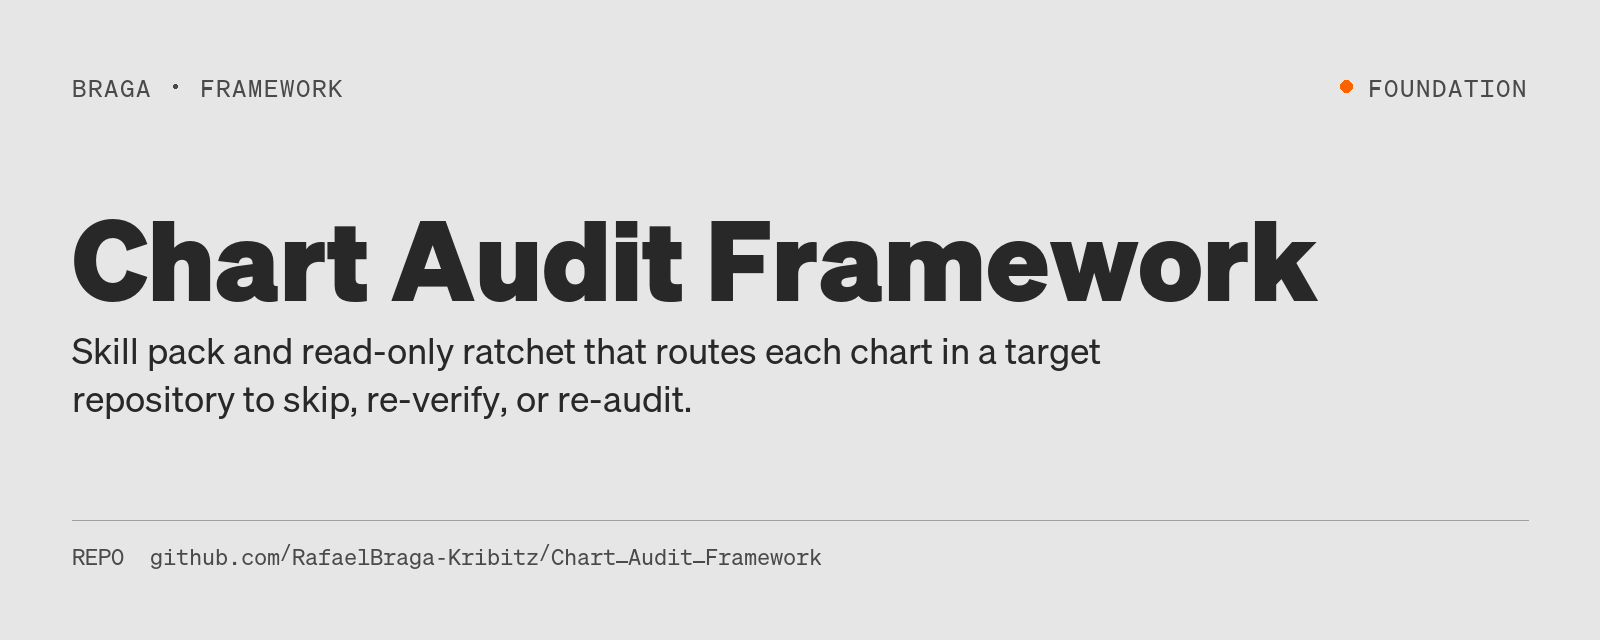
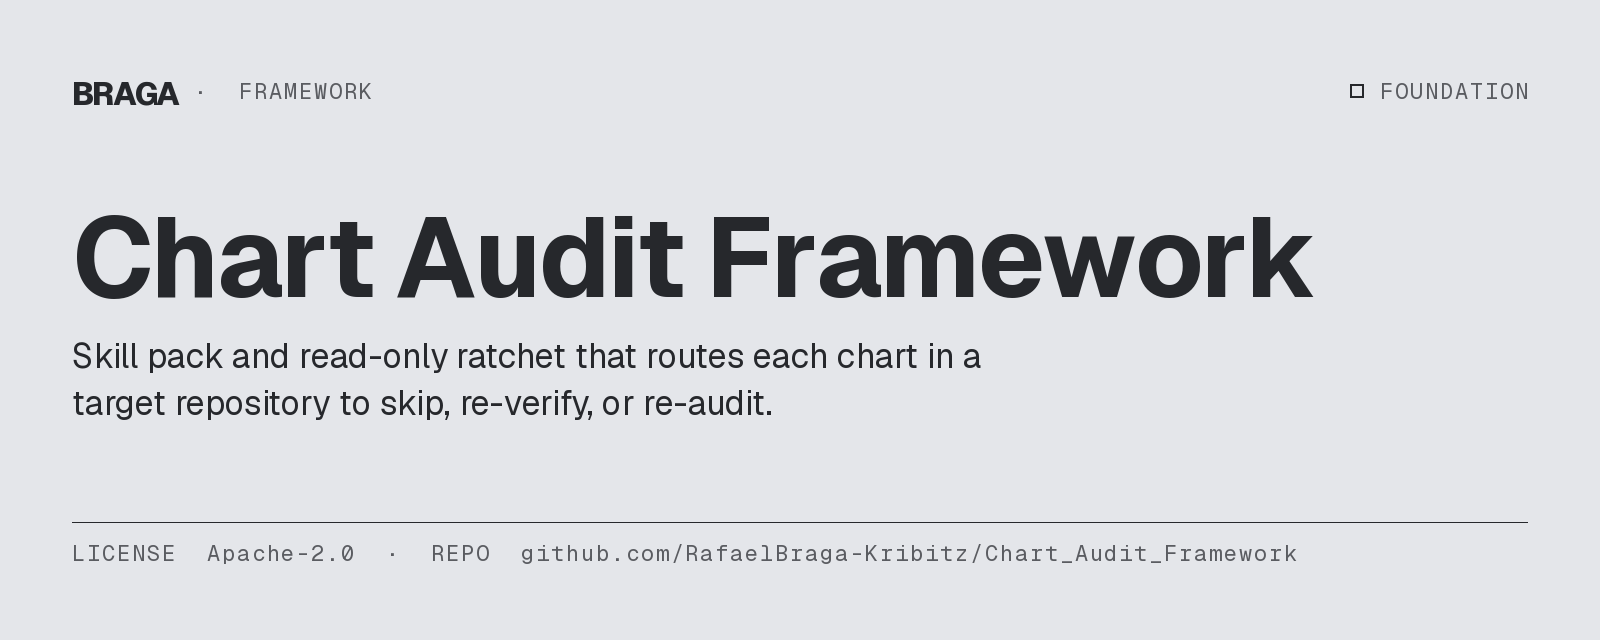
Chart skills build and audit in the Braga design system v2.1
chart-expert/references/house-style.md: for the owner's repositories (or
any target declaring bk-viz) the library spec decides the chart and the
house style decides how it looks: bk-viz >= 2.0.0, colours only through
roles, one highlight, IBCS variance colours with the ▲ alert, colour in
marks never in type, BKribitz, 12px floor, provenance footer. chart-audit
adds its table to Layer 9 (visual integrity), below the upstream layers.

README: banner regenerated on design system v2.1, badges in the
neutrals, the Mermaid diagram on the site's theme (braga-portfolio-docs).

Claude-Session: https://claude.ai/code/session_017JXfGqfFadubVauUqq2nZv

diff --git a/chart-expert/references/house-style.md b/chart-expert/references/house-style.md
@@ -1,0 +1,48 @@
+# House style — the Braga design system v2.1
+
+Load this whenever the target repository belongs to Rafael Braga-Kribitz (any
+`github.com/RafaelBraga-Kribitz/*` checkout) or declares `bk-viz` as a dependency.
+The library's chart specs say *which* chart and *how to build it*; this file
+says how every chart in the owner's portfolio *looks*. Where a library snippet
+hard-codes a colour (`#4477AA`, `#d3d3d3`, …), this file wins.
+
+Source of truth: braga-portfolio-v2
+[`design-system/DECISIONS.md`](https://github.com/RafaelBraga-Kribitz/braga-portfolio-v2/blob/main/design-system/DECISIONS.md)
+(D-015–D-018, D-033, D-036, D-053) and its `tokens.json`. The implementation is
+[`bk-viz`](https://github.com/RafaelBraga-Kribitz/bk-viz) ≥ 2.0.0; never copy a
+hex value from either into chart code.
+
+## Implement (chart-expert)
+
+1. Declare `bk-viz` (`bk-viz @ git+https://github.com/RafaelBraga-Kribitz/bk-viz@v2.0.0`)
+   and call `bk.apply("light")` (or `"dark"`) before plotting.
+2. Colours only through roles: `bk.c("sc-ac")` actual, `bk.c("sc-py")` previous
+   year, `bk.c("sc-pl")` plan (outline), `bk.variance_color(delta)` for
+   variances, `bk.palette("categorical", n)` for unordered series (six or more:
+   the rest are `bk.c("cat-other")`), `bk.palette("seq" | "div" | "two" | …)`
+   for scales, `bk.highlight_palette(labels, highlight=…)` for the one mark that
+   earned the accent.
+3. One highlight per chart (`hl`, the ultramarine accent). Two highlights read
+   as none.
+4. Colour lives in marks, never in type: labels in `ink` / `ink-2`
+   (`bk.direct_label`, `bk.value_labels`). A bad variance label carries ▲
+   (`bk.variance_label`). The only coloured text is the one earned KPI figure.
+5. Finding as the title (`bk.finding_title`), provenance under the chart
+   (`bk.footer`), direct labels instead of a legend where possible.
+6. Save with `bk.save(fig, path)` (PNG + SVG); no text below 12px.
+
+## Audit (chart-audit, Layer 9 — Visual Integrity)
+
+For a chart in the owner's portfolio, each item below is a finding when it fails.
+They are presentation findings: they never outrank Layers 1–8 (upstream first).
+
+| Check | Fails when |
+|---|---|
+| Theme applied | the generator does not import `bk_theme` / call `bk.apply()`; the surface is white or `#E6E6E6` (v1) |
+| No v1 palette | orange `#FA6400`, moment blue `#5B7FFF`, or a Söhne font name appears in the generator or the figure |
+| One highlight | more than one mark in the accent; the accent used for anything but the earned mark |
+| IBCS roles | variance coloured by anything but `var-pos` / `var-neg`; a bad variance without ▲; plan drawn solid |
+| Colour in type | a label, tick or title in a hue (other than the one earned KPI figure); `mid` grey used for text |
+| Categorical order | hues out of slot order, or six-plus series without `cat-other` |
+| Type | not BKribitz / BKribitz Mono; any text below 12px |
+| Provenance | no `bk.footer` (source, run, epistemic tag) on a published figure |

diff --git a/README.md b/README.md
@@ -2,8 +2,8 @@
 
 ![Chart Audit Framework — Skill pack and read-only ratchet that routes each chart in a target repository to skip, re-verify, or re-audit.](docs/assets/hero.png)
 
-[![Status: Foundation](https://img.shields.io/badge/status-Foundation-orange)](#status)
-[![License: Apache-2.0](https://img.shields.io/badge/license-Apache--2.0-green)](LICENSE)
+[![Status: Foundation](https://img.shields.io/badge/status-Foundation-5A5C61?labelColor=26282C)](#status)
+[![License: Apache-2.0](https://img.shields.io/badge/license-Apache--2.0-5A5C61?labelColor=26282C)](LICENSE)
 
 **Status:** Foundation
 
@@ -12,6 +12,33 @@ Python 3 · PyYAML · Apache-2.0 (author's files; third-party references exclude
 Charts that look finished can still encode a flat distribution, a mislabeled interval, or a silently dropped category — and a fresh language-model audit of every figure cannot tell a closed finding from a regression. This framework is the skill pack and read-only ratchet that routes each chart to skip, re-verify, or re-audit against a target repository's figure manifest.
 
 ```mermaid
+%%{init: {
+  "theme": "base",
+  "fontFamily": "BKribitz, system-ui, -apple-system, Segoe UI, Helvetica, Arial, sans-serif",
+  "themeVariables": {
+    "background": "#E4E6EA",
+    "primaryColor": "#DCDEE2",
+    "primaryTextColor": "#26282C",
+    "primaryBorderColor": "#26282C",
+    "secondaryColor": "#E4E6EA",
+    "secondaryTextColor": "#26282C",
+    "secondaryBorderColor": "#5A5C61",
+    "tertiaryColor": "#E4E6EA",
+    "tertiaryTextColor": "#26282C",
+    "tertiaryBorderColor": "#C2C4CA",
+    "lineColor": "#5A5C61",
+    "textColor": "#26282C",
+    "mainBkg": "#DCDEE2",
+    "nodeBorder": "#26282C",
+    "clusterBkg": "#E4E6EA",
+    "clusterBorder": "#C2C4CA",
+    "edgeLabelBackground": "#E4E6EA",
+    "titleColor": "#26282C",
+    "fontFamily": "BKribitz, system-ui, -apple-system, Segoe UI, Helvetica, Arial, sans-serif",
+    "fontSize": "14px"
+  },
+  "flowchart": { "curve": "linear", "htmlLabels": true, "padding": 8 }
+}}%%
 flowchart TD
   T[Target checkout<br/>FIGURE_MANIFEST + findings] --> R[ratchet.py]
   R -->|unchanged and previously clean| S[skip]

diff --git a/chart-expert/SKILL.md b/chart-expert/SKILL.md
@@ -33,6 +33,7 @@ If the user is deciding what to measure, which OKRs or KPIs matter, how a dashbo
 | `library/ONTOLOGY.md` | Metric, KPI, KRI, OMTM, objective, or key result is being used loosely |
 | `library/KPIS/index.md` | Looking up an authored KPI, its formula, and its charts |
 | `references/input-type-schema.md` | Always — core detection logic |
+| `references/house-style.md` | The target is one of the owner's repositories or declares `bk-viz`: every chart is built in the Braga design system v2.1 |
 | `references/input-type-inventory.md` | Data has unusual IT structure (IT001–IT040) |
 | `references/retrieval-dimensions.md` | Need to understand filtering logic |
 | `references/chart-library-index.md` | Looking up which charts exist in library |
@@ -125,6 +126,11 @@ Before invoking chart-implementer, determine the project's tool:
 3. Scan reports/ directory → .html files suggest plotly/altair; .png from python suggest matplotlib
 4. Default: matplotlib (Python projects), altair (web/notebook projects)
 ```
+
+When the target is one of the owner's repositories (or declares `bk-viz`), the tool is
+matplotlib with `bk_theme` applied, and `references/house-style.md` is passed to the
+chart-implementer with the chart spec: the spec decides the chart, the house style decides
+its colours, type and annotation.
 
 ## Gate C Integration
 

diff --git a/chart-audit/SKILL.md b/chart-audit/SKILL.md
@@ -51,6 +51,7 @@ Also triggered automatically when the `chart-expert` skill fires Gate C (wrong c
 | `references/code-smells.md` | Diagnosing a bug from a visual symptom |
 | `references/scoring-rubric.md` | Scoring a chart or classifying severity |
 | `references/reporting.md` | Producing a consolidated multi-chart report |
+| `../chart-expert/references/house-style.md` | The target is one of the owner's repositories or declares `bk-viz`: its Layer 9 table is part of the visual-integrity audit |
 | `references/github-issue-template.md` | Emitting GitHub issues |
 
 ## Audit Loop (per-chart isolation)

diff --git a/chart-audit/references/audit-layers.md b/chart-audit/references/audit-layers.md
@@ -166,6 +166,9 @@ Last and least. Fonts, overlaps, whitespace, clutter. Visual design is the final
 
 ---
 
+For the owner's repositories (or any target declaring `bk-viz`), add the house-style table in
+`../../chart-expert/references/house-style.md` to this layer.
+
 ## Required Fixes Order (Upstream First)
 
 When listing required fixes, always order:
